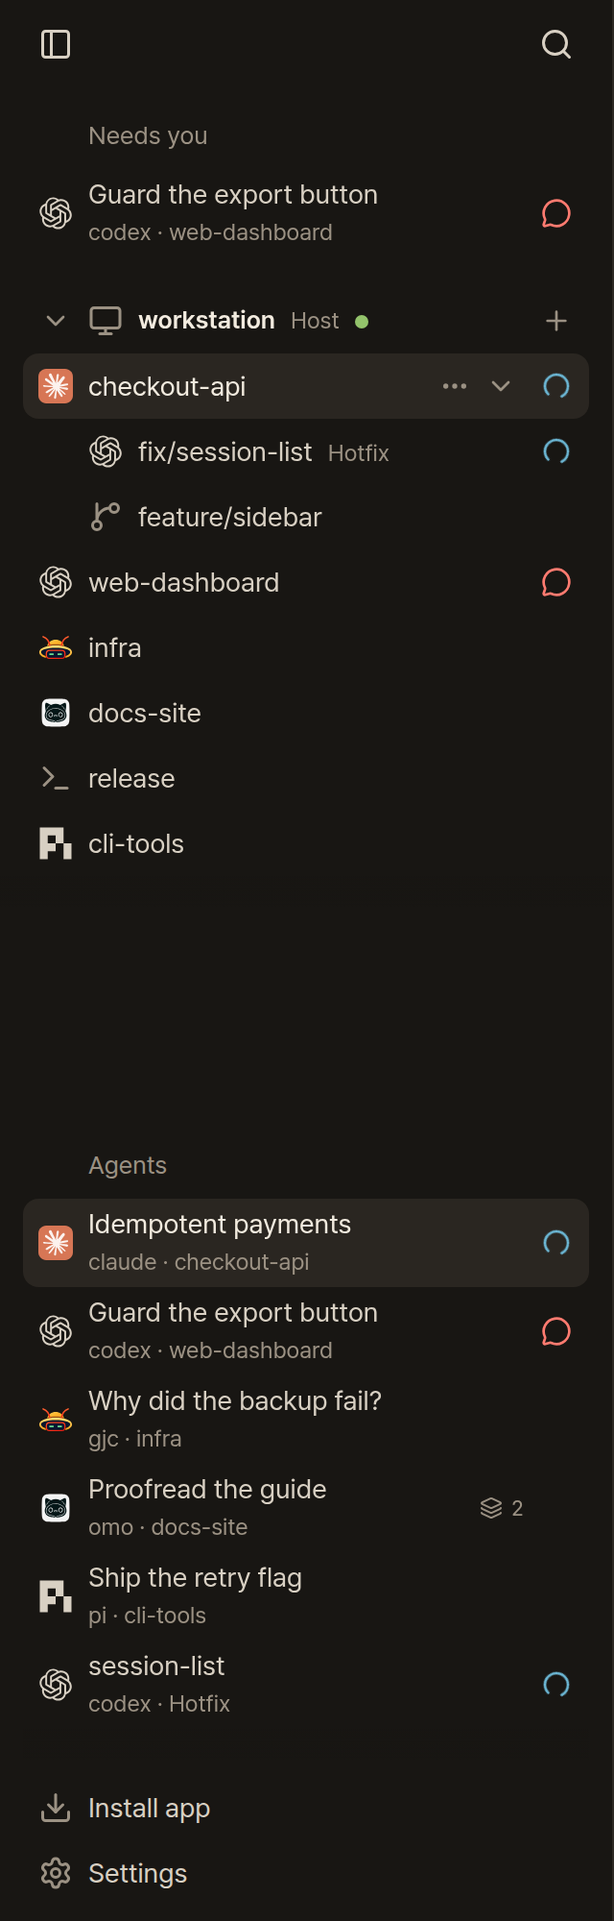
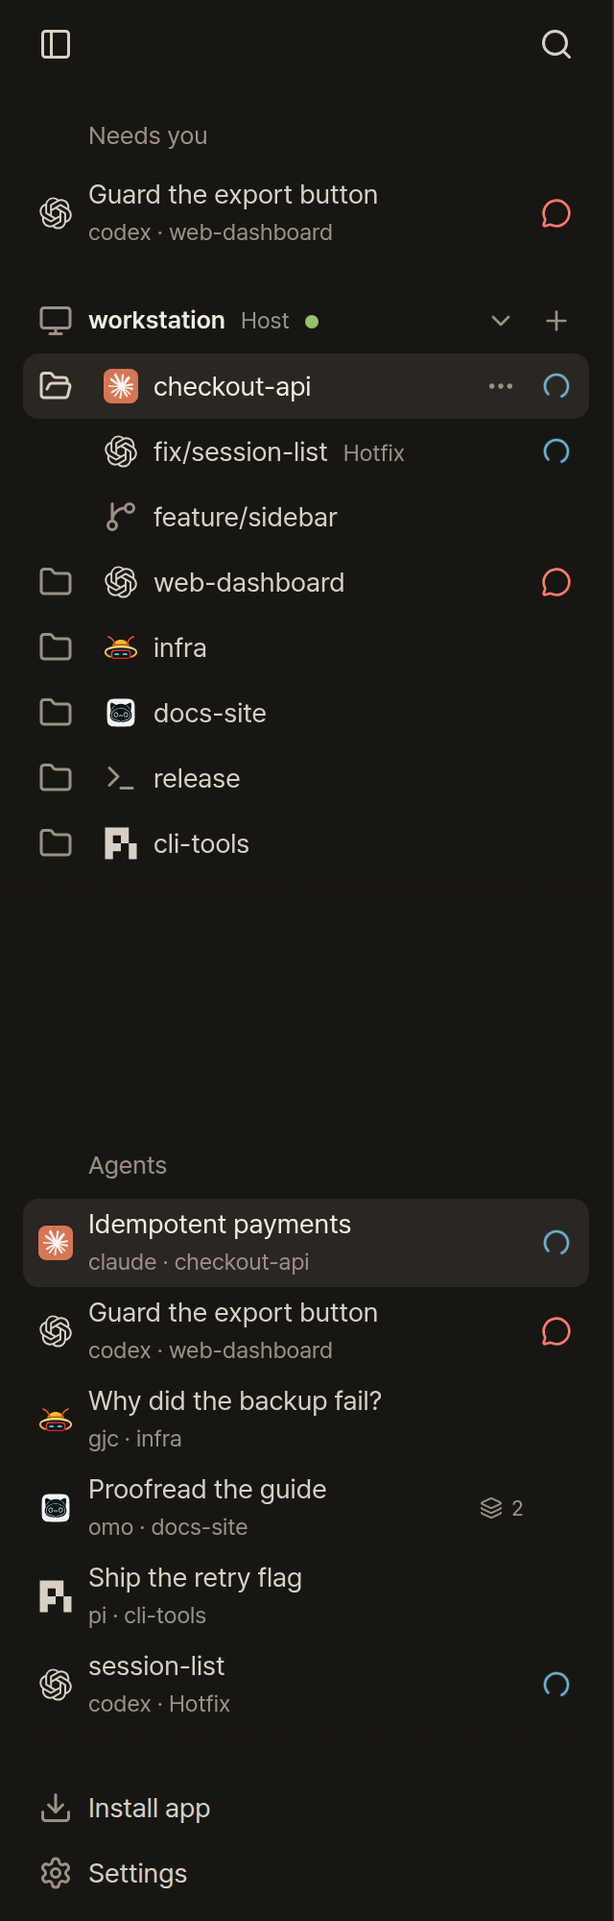
feat(sidebar): a folder leads each workspace and is its fold; the PC's fold sits by its +
A top-level workspace row starts with a folder glyph in the leading cell,
before the agent's mark. Where linked worktrees sit under the workspace the
folder is the fold, replacing the chevron at the row's right: open while the
worktrees show, closed while they are folded, with a dim +N for the
checkouts put away. Other workspaces get a dim glyph and no control, and
worktree rows sit one cell in, their marks under the parent's.

The PC header's fold is a caret button beside the +, the monitor takes the
leading cell over the folders, and the name is no longer a control. Folder
mode drops its hover caret: the folder glyph and name are the fold there.

diff --git a/src/components/Sidebar.tsx b/src/components/Sidebar.tsx
@@ -1,5 +1,5 @@
 import { Fragment, useCallback, useEffect, useId, useLayoutEffect, useMemo, useRef, useState, type DragEvent, type KeyboardEvent, type MouseEvent } from "react";
-import { Check, ChevronDown, ChevronRight, Ellipsis, Folder, FolderOpen, GitBranch, Layers, LoaderCircle, MessageCircle, Pencil, Plus, Terminal, Trash2, TriangleAlert, X } from "lucide-react";
+import { Check, Ellipsis, Folder, FolderOpen, GitBranch, Layers, LoaderCircle, MessageCircle, Pencil, Plus, Terminal, Trash2, TriangleAlert, X } from "lucide-react";
 
 import "./Sidebar.css";
 
@@ -602,7 +602,7 @@ export function Sidebar({ snapshot, online, selectedPaneId, actions }: SidebarPr
     );
   };
 
-  const renderWorkspaceRow = (workspace: WorkspaceInfo, children: WorkspaceInfo[] = []) => {
+  const renderWorkspaceRow = (workspace: WorkspaceInfo, children: WorkspaceInfo[] = [], nested = false) => {
     const panes = roster.filter((pane) => pane.workspace_id === workspace.workspace_id);
     if (panes.length === 0) return null;
     const pane = currentPane(workspace, panes);
@@ -617,6 +617,8 @@ export function Sidebar({ snapshot, online, selectedPaneId, actions }: SidebarPr
     // a folded group's parent stands for its worktrees too, as herdr's collapsed parent does:
     // a checkout that waits or has finished must not hide behind the fold
     const statusPanes = collapsed ? [...panes, ...children.flatMap((child) => roster.filter((candidate) => candidate.workspace_id === child.workspace_id))] : panes;
+    // a folded group still shows the checkout that is open; the count is of the ones put away
+    const foldedCount = collapsed ? children.filter((child) => !roster.some((candidate) => candidate.workspace_id === child.workspace_id && candidate.pane_id === selectedPaneId)).length : 0;
     const editingWorkspace = editingWorkspaceId === `\u0000${workspace.workspace_id}`;
     const editingPane = editingPaneId === pane.pane_id;
     const menuOpen = menu?.workspace.workspace_id === workspace.workspace_id && menu.scope === "" && menu.kind === "workspace";
@@ -631,6 +633,16 @@ export function Sidebar({ snapshot, online, selectedPaneId, actions }: SidebarPr
       onDrop={(event) => onDrop(event, workspace.workspace_id)}
     >
       <div className="workspace-header" onContextMenu={(event) => onRowContextMenu(event, toggleMenu)}>
+        {/* a workspace leads with its folder, which is the fold when linked worktrees sit under it */}
+        {nested ? null : children.length > 0 && repoKey !== undefined ? <button
+          type="button"
+          className="sidebar-row-action workspace-toggle"
+          aria-label={collapsed ? t("Expand worktrees of {name}", { name: workspace.label }) : t("Collapse worktrees of {name}", { name: workspace.label })}
+          title={collapsed ? t("Expand worktrees of {name}", { name: workspace.label }) : t("Collapse worktrees of {name}", { name: workspace.label })}
+          aria-expanded={!collapsed}
+          aria-controls={contentsId}
+          onClick={() => setWorktreeCollapsed(repoKey, !collapsed)}
+        >{collapsed ? <Folder aria-hidden="true" /> : <FolderOpen aria-hidden="true" />}</button> : <span className="sidebar-mark workspace-folder" aria-hidden="true"><Folder /></span>}
         <div
           className="pane-select workspace-select"
           role="button"
@@ -685,6 +697,7 @@ export function Sidebar({ snapshot, online, selectedPaneId, actions }: SidebarPr
           /> : <span className="workspace-copy">
             <span className="workspace-name">{rowTitle}</span>
             {secondaryWorkspaceLabel && <span className="worktree-workspace-label">{secondaryWorkspaceLabel}</span>}
+            {foldedCount > 0 && <span className="workspace-fold-count" aria-hidden="true">+{foldedCount}</span>}
           </span>}
           <span className="sidebar-pane-meta">
             <span className="visually-hidden">{markName(pane)}</span>
@@ -696,14 +709,6 @@ export function Sidebar({ snapshot, online, selectedPaneId, actions }: SidebarPr
             <Ellipsis aria-hidden="true" />
           </button>
         </div>
-        {children.length > 0 && repoKey !== undefined && <button
-          type="button"
-          className="sidebar-row-action workspace-toggle"
-          aria-label={collapsed ? t("Expand worktrees of {name}", { name: workspace.label }) : t("Collapse worktrees of {name}", { name: workspace.label })}
-          aria-expanded={!collapsed}
-          aria-controls={contentsId}
-          onClick={() => setWorktreeCollapsed(repoKey, !collapsed)}
-        >{collapsed ? <ChevronRight aria-hidden="true" /> : <ChevronDown aria-hidden="true" />}</button>}
       </div>
       {inlineError?.workspaceId === workspace.workspace_id && <p className="sidebar-inline-error" role="alert">{inlineError.message}</p>}
     </li>;
@@ -730,7 +735,6 @@ export function Sidebar({ snapshot, online, selectedPaneId, actions }: SidebarPr
                 {collapsed ? <Folder aria-hidden="true" /> : <FolderOpen aria-hidden="true" />}
                 <span className="directory-copy"><span className="directory-name">{name}</span>{directory.path && <span className="directory-path visually-hidden">{directory.path}</span>}</span>
                 <span id={countId} className="workspace-number visually-hidden">{t("{n} panes", { n: directory.paneCount })}</span>
-                {collapsed ? <ChevronRight className="directory-caret" aria-hidden="true" /> : <ChevronDown className="directory-caret" aria-hidden="true" />}
               </button>
               {!collapsed && <div className="directory-contents"><ul className="workspace-list">{directory.workspaces.map(({ workspace, panes: visiblePanes }) => renderWorkspace(workspace, visiblePanes, directory.key))}</ul></div>}
             </section>;
@@ -742,7 +746,7 @@ export function Sidebar({ snapshot, online, selectedPaneId, actions }: SidebarPr
                 id={`${rosterId}-worktrees-${encodeURIComponent(workspace.worktree!.repo_key)}`}
                 hidden={collapsedWorktrees.has(workspace.worktree!.repo_key) && !children.some((child) => roster.some((pane) => pane.workspace_id === child.workspace_id && pane.pane_id === selectedPaneId))}
               ><ul className="workspace-list">
-                {children.filter((child) => !collapsedWorktrees.has(workspace.worktree!.repo_key) || roster.some((pane) => pane.workspace_id === child.workspace_id && pane.pane_id === selectedPaneId)).map((child) => renderWorkspaceRow(child))}
+                {children.filter((child) => !collapsedWorktrees.has(workspace.worktree!.repo_key) || roster.some((pane) => pane.workspace_id === child.workspace_id && pane.pane_id === selectedPaneId)).map((child) => renderWorkspaceRow(child, [], true))}
               </ul></li>}
             </Fragment>
           ))}</ul>}

diff --git a/src/components/Sidebar.css b/src/components/Sidebar.css
@@ -143,11 +143,35 @@ button.sidebar-section-label:focus-visible { outline-offset: calc(var(--ring-off
   cursor: pointer;
 }
 
-/* One indent level. A linked worktree keeps herdr's repository workspace as its parent, a folder
-   its workspaces; the fill stays as wide as the list and the row's content moves. */
-.worktree-children .workspace-header,
-.directory-contents .pane-row {
-  padding-left: var(--side-indent);
+/* One indent level. A linked worktree keeps herdr's repository workspace as its parent and sits
+   under that row's mark, clear of the folder column; a folder's workspaces move by the indent.
+   The fill stays as wide as the list and the row's content moves. */
+.worktree-children .workspace-header { padding-left: var(--side-box); }
+.directory-contents .pane-row { padding-left: var(--side-indent); }
+
+/* The folder that leads a workspace row. It is the fold, and a button, when linked worktrees
+   sit under the workspace: open while they show, closed while they are folded. */
+.sidebar-row-action.workspace-toggle {
+  flex: 0 0 var(--side-box);
+  width: var(--side-box);
+  align-self: stretch;
+  height: auto;
+  border-radius: var(--radius-md);
+  color: var(--text);
+}
+
+.sidebar-row-action.workspace-toggle svg {
+  width: var(--icon-size);
+  height: var(--icon-size);
+}
+
+/* how many worktrees a closed folder holds: the closed glyph alone looks like any workspace's */
+.workspace-fold-count {
+  flex: none;
+  color: var(--text-dim);
+  font-size: var(--fs-xs);
+  font-variant-numeric: tabular-nums;
+  line-height: var(--lh-tight);
 }
 
 /* hover first, selection after it: one neutral fill at two strengths */
@@ -239,7 +263,7 @@ button.sidebar-section-label:focus-visible { outline-offset: calc(var(--ring-off
 
 .directory-header:focus-visible { outline-offset: calc(var(--ring-offset) * -1); }
 
-.directory-header > svg:not(.directory-caret) {
+.directory-header > svg {
   flex: 0 0 auto;
   width: var(--icon-size);
   height: var(--icon-size);
@@ -252,23 +276,6 @@ button.sidebar-section-label:focus-visible { outline-offset: calc(var(--ring-off
   flex-direction: column;
   flex: 1 1 auto;
   min-width: 0;
-}
-
-/* the fold's caret sits in the status column and shows when it is of use */
-.directory-caret {
-  position: absolute;
-  right: calc((var(--side-box) - var(--space-4)) / 2);
-  width: var(--space-4);
-  height: var(--space-4);
-  color: var(--text-dim);
-  opacity: 0;
-}
-
-.directory-header:focus-visible .directory-caret,
-.directory-group.is-collapsed .directory-caret { opacity: 1; }
-
-@media (hover: hover) {
-  .directory-header:hover .directory-caret { opacity: 1; }
 }
 
 .workspace.is-dragging {
@@ -507,15 +514,13 @@ button.sidebar-section-label:focus-visible { outline-offset: calc(var(--ring-off
     --side-action: var(--touch-target);
   }
 
-  /* Row menus and group folds stay visible on touch. */
+  /* Row menus stay visible on touch. */
   .workspace-actions,
   .pane-actions {
     width: auto;
     overflow: visible;
     opacity: 1;
   }
-
-  .directory-caret { opacity: 1; }
 }
 
 @media (prefers-reduced-motion: reduce) {

diff --git a/src/components/MachineSidebar.tsx b/src/components/MachineSidebar.tsx
@@ -65,18 +65,19 @@ function MachineGroup({ machine, ...props }: Props & { machine: Machine }) {
     setCollapsed(!collapsed);
     try { localStorage.setItem(`herdr-web-ui:pc-collapsed:${machine.id}`, collapsed ? "0" : "1"); } catch {}
   };
-  // the PC's name is the head of its workspaces, and its caret the one fold over them
+  // the PC's name is the head of its workspaces, and the caret beside its + the one fold over them
   return <section className={`machine-group${props.selectedMachineId === machine.id ? " is-current" : ""}${online ? "" : " is-offline"}`} aria-label={t("PC {name}", { name: machine.name })}>
     <header className="machine-header">
-      <button className="machine-toggle" aria-expanded={!collapsed} onClick={toggle}>
-        {collapsed ? <ChevronRight className="machine-caret" aria-hidden="true" /> : <ChevronDown className="machine-caret" aria-hidden="true" />}
-        <Monitor className="machine-icon" aria-hidden="true" />
+      <div className="machine-title">
+        <span className="sidebar-mark" aria-hidden="true"><Monitor /></span>
         <span className="machine-name">{machine.name}</span>
         {/* the computer this app's server runs on; on a phone "this PC" read as the phone */}
         {machine.kind === "local" && <span className="machine-kind" title={t("The computer this app runs on")}>{t("Host")}</span>}
         <span className={`machine-dot is-${machine.state}`} title={t(STATE_WORD[machine.state])} aria-hidden="true" />
-      </button>
+      </div>
       {machine.kind === "ssh" && <button className="sidebar-row-action machine-manage" aria-label={t("Manage {name}", { name: machine.name })} title={t("Manage PC")} aria-expanded={editing} onClick={() => { setEditing(!editing); setConfirmDelete(false); }}><SlidersHorizontal aria-hidden="true" /></button>}
+      {/* the fold over this PC's workspaces sits beside the + */}
+      <button className="sidebar-row-action machine-toggle" aria-expanded={!collapsed} aria-label={collapsed ? t("Expand {name}", { name: machine.name }) : t("Collapse {name}", { name: machine.name })} title={collapsed ? t("Expand {name}", { name: machine.name }) : t("Collapse {name}", { name: machine.name })} onClick={toggle}>{collapsed ? <ChevronRight aria-hidden="true" /> : <ChevronDown aria-hidden="true" />}</button>
       <button className="sidebar-row-action machine-new" disabled={!online} aria-label={t("New workspace on {name}", { name: machine.name })} title={t("New workspace")} onClick={() => props.onNew(machine.id)}><Plus aria-hidden="true" /></button>
     </header>
     {/* connected is the norm and says nothing new; every other state is spelled out */}

diff --git a/src/components/Machines.css b/src/components/Machines.css
@@ -1,5 +1,6 @@
-/* One PC per group: its name is the head of its workspaces. The caret hangs in the rows' leading
-   cell, the monitor follows it, and the state line starts where the name does. */
+/* One PC per group: its name is the head of its workspaces. The monitor sits in the rows'
+   leading cell, over the workspaces' folders, and the state line starts where the name does.
+   The fold and the + close the header at its right. */
 .machine-list {
   position: relative;
   flex: 1 1 0;
@@ -24,7 +25,7 @@
 .machine-list > .tree-state { padding-left: calc(var(--side-gutter) + var(--side-box)); }
 
 .machine-group {
-  --machine-indent: calc(var(--side-gutter) + var(--side-box) + var(--icon-size) + var(--space-2));
+  --machine-indent: calc(var(--side-gutter) + var(--side-box));
 }
 
 .machine-group + .machine-group { margin-top: var(--space-4); }
@@ -35,41 +36,16 @@
   padding: 0 var(--side-gutter);
 }
 
-.machine-toggle {
+.machine-title {
   display: flex;
   align-items: center;
   flex: 1 1 auto;
   min-width: 0;
   min-height: var(--side-row);
-  padding: 0;
-  border: 0;
-  border-radius: var(--radius-md);
-  background: transparent;
   color: var(--text-strong);
-  font: inherit;
   font-size: var(--fs-sm);
   font-weight: var(--fw-semibold);
   line-height: var(--lh-tight);
-  text-align: left;
-  cursor: pointer;
-}
-
-.machine-toggle:focus-visible { outline-offset: calc(var(--ring-offset) * -1); }
-
-.machine-caret {
-  flex: none;
-  width: var(--space-4);
-  height: var(--space-4);
-  margin-inline: calc((var(--side-box) - var(--space-4)) / 2);
-  color: var(--text-dim);
-}
-
-.machine-icon {
-  flex: none;
-  width: var(--icon-size);
-  height: var(--icon-size);
-  margin-right: var(--space-2);
-  color: var(--text-dim);
 }
 
 .machine-name {

diff --git a/scripts/ui-regression.ts b/scripts/ui-regression.ts
@@ -179,6 +179,8 @@ try {
   await herdrRpc("pane.report_agent", { pane_id: paneB, source: "manual", agent: "codex", state: "idle" });
   await agentRow(paneB).waitFor();
   const machineToggle = page.locator(".machine-group .machine-toggle");
+  // the PC's fold is the caret beside its +
+  assert.equal(await page.locator(".machine-group .machine-toggle + .machine-new").count(), 1);
   await machineToggle.click();
   await workspaceGroup(workspaces[0]!).waitFor({ state: "detached" });
   assert.equal(await agentRow(paneA).isVisible(), true, "PC folding leaves Agents visible");
@@ -900,6 +902,9 @@ try {
   const repoToggle = repoHeader.locator(".workspace-toggle");
   await repoToggle.click();
   await childRow.waitFor({ state: "detached" });
+  // the folder that leads the row is the fold, and a closed one says how many checkouts it holds
+  assert.equal(await repoHeader.evaluate((header) => header.firstElementChild?.classList.contains("workspace-toggle") ?? false), true, "the fold leads the row");
+  assert.equal(await repoHeader.locator(".workspace-fold-count").textContent(), "+1");
   assert.equal(await agentRow(worktree.pane_id).isVisible(), true, "folding a worktree group preserves its independent agent");
   await agentRow(worktree.pane_id).locator(".agent-select").click();
   await childHeader.locator('.workspace-select[aria-current="true"]').waitFor();

diff --git a/src/lib/i18n.ja.ts b/src/lib/i18n.ja.ts
@@ -159,6 +159,8 @@ export const JA: Record<string, string> = {
   "No workspaces yet": "ワークスペースはまだありません",
   "Workspace name": "ワークスペース名",
   "Reorder workspace {name}": "ワークスペース {name} を並べ替え",
+  "Expand {name}": "{name} を展開",
+  "Collapse {name}": "{name} を折りたたむ",
   "Collapse folder {name}": "フォルダー {name} を折りたたむ",
   "Expand folder {name}": "フォルダー {name} を展開",
   "Sidebar grouping": "サイドバーのセッション分類",

diff --git a/src/lib/i18n.ko.ts b/src/lib/i18n.ko.ts
@@ -157,6 +157,8 @@ export const KO: Record<string, string> = {
   "No workspaces yet": "아직 워크스페이스가 없습니다",
   "Workspace name": "워크스페이스 이름",
   "Reorder workspace {name}": "워크스페이스 {name} 순서 바꾸기",
+  "Expand {name}": "{name} 펼치기",
+  "Collapse {name}": "{name} 접기",
   "Collapse folder {name}": "폴더 {name} 접기",
   "Expand folder {name}": "폴더 {name} 펼치기",
   "Sidebar grouping": "사이드바 세션 묶음",

diff --git a/src/lib/i18n.zh.ts b/src/lib/i18n.zh.ts
@@ -161,6 +161,8 @@ export const ZH: Record<string, string> = {
   "No workspaces yet": "暂无工作区",
   "Workspace name": "工作区名称",
   "Reorder workspace {name}": "调整工作区 {name} 的顺序",
+  "Expand {name}": "展开 {name}",
+  "Collapse {name}": "折叠 {name}",
   "Collapse folder {name}": "折叠文件夹 {name}",
   "Expand folder {name}": "展开文件夹 {name}",
   "Sidebar grouping": "侧栏会话分组",

diff --git a/src/AGENTS.md b/src/AGENTS.md
@@ -33,7 +33,7 @@ React 18 + xterm.js browser client. The render-state machine, xterm lifecycle an
 | Chat composer | components/Composer.tsx + lib/compose.ts + lib/mentions.ts + lib/modelName.ts | the model pill shows a name only for an id `modelLabel` matches whole, else the id as received in mono: never add a guessed name; Enter or Mod+Enter sends per `settings.enterSends`, IME Enter never sends; `/` slash commands are cached 60s per pane, `@` file search is debounced 150ms; Stop is Escape into the pty via `onAbort`; Queue when a send would land mid-run; disabled (text held, never queued) while disconnected |
 | Session panel | components/SessionPanel.tsx + lib/activity.ts | derived client-side from the turns ChatView already has (`onActivity`); task state comes from the tool part's `task`; open state lives in App (`herdr-web-ui:session-panel`); phones (≤640px) show neither the panel nor its strip |
 | Chat lens | components/ChatView.tsx + Markdown.tsx (lib/markdown.ts) + lib/workBlocks.ts + lib/toolVerbs.ts + PromptCard.tsx | `splitTurn` folds tools/thinking/narration into one `.work-block` and honors explicit Codex commentary/final phases; a row is verb + object by exact tool id (`toolVerb`), the id kept in its title and opened detail; duration = `end_ts − ts`; conversation polls run serially, a send refresh preserves history/scroll, a pane change resets; ChatView polls `/api/pane/prompt` every 2s whatever the pane's status (a menu can wait while herdr reports idle: Codex's trust check, pi's dialogs, Claude Code's `/model` list) and owns the prompt; PromptCard answers through `/api/pane/prompt/answer` (409 → re-read) and is drawn through a portal into PaneTerminal's `.prompt-dock`, over the input card and outside the transcript |
-| Sidebar roster | components/Sidebar.tsx + AgentSidebar.tsx + TabStrip.tsx; lib/useWorktreeBranches.ts + worktreeBranches.ts | workspace rows render inside `MachineSidebar`, one roster per PC; workspace grouping is the default: parent names stay `workspace.label`, opened linked worktree rows show branches from existing `GET /api/worktree/list` matched by repo key + open workspace ID + normalized checkout path, never labels or directory names; `Detached HEAD` requires the listing's flag; custom workspace names are secondary, while the default slash-to-dash name is suppressed, with full names/path in tooltips; create/open responses seed branch metadata and expand the parent; structural changes and visibility return refresh inventory, with a serial 30 s visible+online backstop and stale-request guards; status rolls up each workspace's panes in herdr's order, blocked > done > working > idle (`rollupStatus`, lib/status.ts), a folded worktree parent rolls up its whole group, and the row selects its current/last-viewed/focused pane; only linked worktree groups fold (`herdr-web-ui:worktree-group-collapsed:<machineId>:<repo_key>`), preserving the selected child and deliberate folds across status updates; a separate Agents list joins `snapshot.agents` to panes across the combined machine roster, with a recognized OmO pane fallback and pane status authoritative; every row sits on the `--side-*` grid declared on `.sidebar-shell` (leading glyph cell, title, trailing status cell); a workspace row leads with the mark of the agent in the pane it opens (`paneMark`, lib/sidebarAgents.ts), never another pane's, else the terminal or branch glyph; the roster has no label or fold of its own, the PC caret folds it; Agents and Needs you draw one row body (`AgentRowBody`) and the line-two rules live in `agentContext` (lib/sidebarAgents.ts); the row menu button takes no width at rest but stays focusable (RowMenu and ConfirmDialog return focus to it); both lists use existing SSE, never another status subscription or server contract; opt-in folder grouping keeps its representative workspace rows; workspace rows have no separate reorder grip; dragging the row or Alt+Up/Down on its selector uses `workspace.move`, optimistic and preserving herdr's repository/worktree hierarchy; workspace menus act on workspace scope except Rename pane for the current representative; tab/pane navigation stays in TabStrip and the palette; no search or filter here on purpose, the command palette is the search; Add PC lives in Settings → Remote PCs and the palette (`actions.openAddPc`) |
+| Sidebar roster | components/Sidebar.tsx + AgentSidebar.tsx + TabStrip.tsx; lib/useWorktreeBranches.ts + worktreeBranches.ts | workspace rows render inside `MachineSidebar`, one roster per PC; workspace grouping is the default: parent names stay `workspace.label`, opened linked worktree rows show branches from existing `GET /api/worktree/list` matched by repo key + open workspace ID + normalized checkout path, never labels or directory names; `Detached HEAD` requires the listing's flag; custom workspace names are secondary, while the default slash-to-dash name is suppressed, with full names/path in tooltips; create/open responses seed branch metadata and expand the parent; structural changes and visibility return refresh inventory, with a serial 30 s visible+online backstop and stale-request guards; status rolls up each workspace's panes in herdr's order, blocked > done > working > idle (`rollupStatus`, lib/status.ts), a folded worktree parent rolls up its whole group, and the row selects its current/last-viewed/focused pane; only linked worktree groups fold (`herdr-web-ui:worktree-group-collapsed:<machineId>:<repo_key>`), preserving the selected child and deliberate folds across status updates; a separate Agents list joins `snapshot.agents` to panes across the combined machine roster, with a recognized OmO pane fallback and pane status authoritative; every row sits on the `--side-*` grid declared on `.sidebar-shell` (leading glyph cell, title, trailing status cell); a workspace row leads with the mark of the agent in the pane it opens (`paneMark`, lib/sidebarAgents.ts), never another pane's, else the terminal or branch glyph; a top-level row starts with a folder, which is the fold (`.workspace-toggle`) when linked worktrees sit under it; the roster has no label or fold of its own, the caret beside the PC's `+` folds it; Agents and Needs you draw one row body (`AgentRowBody`) and the line-two rules live in `agentContext` (lib/sidebarAgents.ts); the row menu button takes no width at rest but stays focusable (RowMenu and ConfirmDialog return focus to it); both lists use existing SSE, never another status subscription or server contract; opt-in folder grouping keeps its representative workspace rows; workspace rows have no separate reorder grip; dragging the row or Alt+Up/Down on its selector uses `workspace.move`, optimistic and preserving herdr's repository/worktree hierarchy; workspace menus act on workspace scope except Rename pane for the current representative; tab/pane navigation stays in TabStrip and the palette; no search or filter here on purpose, the command palette is the search; Add PC lives in Settings → Remote PCs and the palette (`actions.openAddPc`) |
 | New workspace / New tab | components/NewSessionDialog.tsx | `createWorkspace`, or `createTab` (POST /api/tab/create) when given a `tab` prop; agent start may take 60s and the dialog stays open while pending; `agent_started:false` + error offers to open the already-created workspace |
 | Command palette | components/CommandPalette.tsx + lib/paletteSearch.ts | Mod+Shift+K; panes (recent first, fuzzy ranked) + actions with `.kbd` hints; Escape closes |
 | Settings | components/SettingsDialog.tsx + lib/settings.ts | `SettingsProvider` wraps App in main.tsx and writes `data-theme` / `data-density` on `<html>`; PhonePanel.tsx picks the address that works through lib/phone.ts `phonePlan`; QrCode.tsx is always dark-on-white |

diff --git a/DESIGN.md b/DESIGN.md
@@ -421,8 +421,8 @@ One set for both themes: the card is island black wherever it shows.
   workspace list has the rest. The Agents heading stays outside its scroll area and shows its
   count only while folded. A list that is cut fades out at its lower edge. An empty or folded
   Agents list gives its space back; PC and workspace folds do not hide agent rows.
-- A PC's header is the head of its workspaces, and its caret is the one fold over them. The roster
-  has no label or fold of its own.
+- A PC's header is the head of its workspaces, and the caret beside its `+` is the one fold over
+  them. The roster has no label or fold of its own.
 - In workspace mode, a repository's parent row keeps `workspace.label`; its opened linked
   worktree rows show their actual checkout branches. Each row's compact status
   glyph rolls up all of the workspace's panes as herdr does (blocked, then done, then working,
@@ -430,9 +430,13 @@ One set for both themes: the card is island black wherever it shows.
   Clicking its name opens the
   selected pane in that workspace, else the last viewed pane, else the pane herdr has focused,
   else its first pane. Tabs and panes are selected from the tab strip and command palette.
-- A repository workspace with linked worktree workspaces has a chevron for that group at the
-  right of its row, before the status cell, always visible as in herdr. Ordinary workspaces have
-  no fold control. Worktree folds are remembered at
+- A top-level workspace row starts with a folder glyph in the grid's leading cell, under the
+  PC's monitor; the row's mark and name follow it. For a repository workspace with linked
+  worktree workspaces that folder is the group's fold, a button (`.workspace-toggle`) in
+  `--text`: open while the worktrees show, closed while they are folded, when a dim `+N` after
+  the name counts the checkouts put away. For any other workspace it is a dim glyph and no
+  control. Worktree rows have no folder: they sit one cell in, their marks under the parent's.
+  Worktree folds are remembered at
   `herdr-web-ui:worktree-group-collapsed:<machineId>:<repo_key>`; a folded group keeps the selected
   child visible, and status snapshots preserve a deliberate fold.
 - Worktree branches come from the existing `GET /api/worktree/list`, matched by repository key,
@@ -470,7 +474,8 @@ One set for both themes: the card is island black wherever it shows.
   Each row represents its current pane: the selected one in that folder, else the last viewed
   one there, else the pane herdr has focused, else its first. Its compact glyph rolls up those
   panes' states; the other panes remain reachable from the tab strip, palette, **Agents** and **Needs you**.
-- Every folder has a caret, an open or closed folder glyph and basename, even for one pane. The
+- Every folder has an open or closed folder glyph, which with its name is the fold, and a
+  basename, even for one pane. The
   folder containing the selection names itself in `--text-strong`; only the selected row is filled.
   Its full path and pane count remain
   available to screen readers, and the path appears in the tooltip. Contents are indented without
@@ -478,8 +483,8 @@ One set for both themes: the card is island black wherever it shows.
   but status updates do not.
 - Folder order follows the first workspace in server order; dragging workspace rows reorders
   workspaces, not filesystem directories. Workspace names and rename actions remain inside the group.
-- Each workspace row is one line: a leading glyph, the name, and the compact state at the right.
-  The leading glyph is the brand mark of the agent in the pane the row opens; a row that opens a
+- Each workspace row is one line: its folder (top-level rows), a leading glyph, the name, and
+  the compact state at the right. The leading glyph is the brand mark of the agent in the pane the row opens; a row that opens a
   shell shows the terminal glyph, and a linked worktree without an agent the branch glyph. The
   mark never stands for another pane's agent; the row's tooltip lists every agent in the
   workspace. A custom worktree workspace name follows the branch on the same line in dim text.
@@ -498,12 +503,13 @@ One set for both themes: the card is island black wherever it shows.
   agent rows show their pane's own title. Each row's
   place is available to screen readers, without repeating what its title already says. The
   palette, which has no header, names the workspace and folder once when they are the same.
-- A PC group header is a caret, a monitor icon, the name in `--text-strong` semibold, “Host” for
+- A PC group header is a monitor icon in the leading cell, the name in `--text-strong` semibold, “Host” for
   the local machine (also when it is the only PC: the name alone does not say which computer it
   is), and a state dot (done = connected, working pulse = connecting/reconnecting, blocked =
-  error, idle = disconnected), then a `+` in the status column that starts a workspace on that
+  error, idle = disconnected), then the fold's caret (`.machine-toggle`, always shown; the name
+  itself is not a control) and a `+` in the status column that starts a workspace on that
   PC (disabled while it is offline). An SSH PC's manage button sits before the
-  `+` and shows on hover, focus, while its panel is open, while the PC is not connected, and always
+  caret and shows on hover, focus, while its panel is open, while the PC is not connected, and always
   on touch. Connected is the dot alone; every other state is also written under the name, with the server's
   error clamped to two lines and complete in the tooltip.
 - In the By workspace view, a repository's worktree workspaces (`workspace.worktree.is_linked_worktree`)

diff --git a/CHANGELOG.md b/CHANGELOG.md
@@ -29,8 +29,9 @@ between releases do not reach them. Remote-PC runtime bundles are versioned sepa
   branch for a worktree without an agent) and ends in one status column, which stays empty while
   an agent is ready. Agent rows name the agent, then the PC when there are several, the workspace
   and the tab. Sections are parted by space instead of rules, a row's menu button takes no room
-  until the row is hovered or selected, and a linked worktree group folds from a chevron that
-  always shows; folded, it shows the most urgent state among its checkouts. A pane herdr could
+  until the row is hovered or selected, and a workspace row starts with a folder: where linked
+  worktrees sit under the workspace, the folder folds them, and folded it shows how many it
+  holds and the most urgent state among its checkouts. A PC's fold sits beside its `+`. A pane herdr could
   not restore shows a warning glyph,
   and the background-task count sits on agent rows.
   Workspace rows keep their names, and agents open their panes directly. Tab and pane navigation
